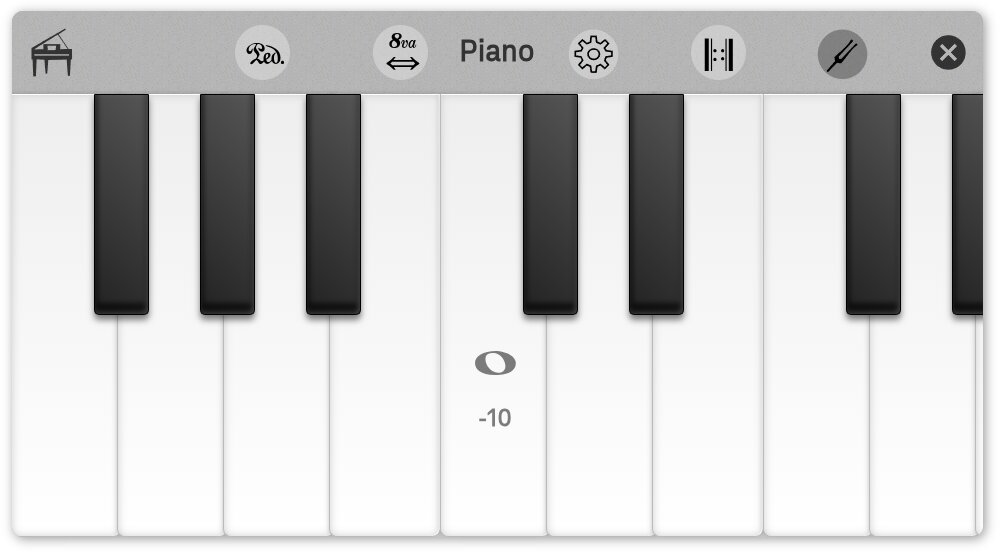
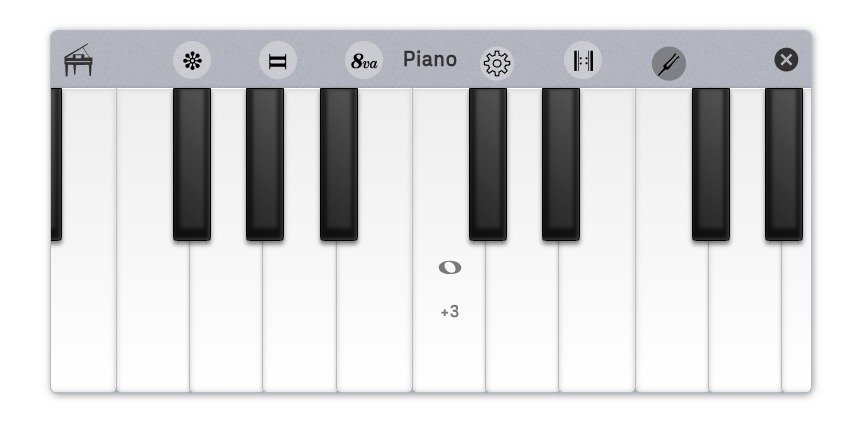
More piano hacking; doc update.

diff --git a/src/tool.js b/src/tool.js
@@ -125,7 +125,7 @@ class Piano {
       touch-action: manipulation; 
       user-select: none;
     }
-    .Piano__key-white:active {
+    .Piano__key-white:active, .Piano__key-white.pressed {
       border-top:.06em solid #777;
       border-left:.06em solid #999;
       border-bottom:.06em solid #999;
@@ -147,7 +147,7 @@ class Piano {
       touch-action: manipulation;
       user-select: none;
     }
-    .Piano__key-black:active {
+    .Piano__key-black:active, .Piano__key-black.pressed {
       box-shadow:-.06em -.06em .18em rgba(255,255,255,0.2) inset,0 -.18em .18em 3px rgba(0,0,0,0.6) inset,0 .06em .18em rgba(0,0,0,0.5);
       background:linear-gradient(to right,#444 0%,#222 100%)
       touch-action: manipulation;
@@ -250,6 +250,7 @@ class Piano {
     this.cell = cell;
     this.keyboardLeft = null;
     this.userWidth = null;
+    this.pointerKeys = new Map();
     Object.assign(this, dataIndex("tag", this.elm));
     this.c4Elm = dataIndex("sample", this.elm)["60/0"];
 
@@ -317,7 +318,7 @@ class Piano {
         let minDrag = -5 * emSize;
         let maxDrag = 16 * emSize;
         let labelWidth = this.panel.title ? this.panel.title.offsetWidth : 100;
-        let minWidth = this.c4Elm.offsetWidth * 8; // minimum 8 white keys
+        let minWidth = this.c4Elm.offsetWidth * 10; // minimum 10 white keys
         let maxWidth = Math.min(K, 2 * window.innerWidth - labelWidth / 2);
 
         e.startWidth = W;
@@ -547,6 +548,9 @@ class Piano {
     });
 
     let noteOff = (tag, force=false) => {
+      let keyElm = this.keyboard.querySelector(`[data-sample="${tag}"]`);
+      if (keyElm) keyElm.classList.remove("pressed");
+
       let note = this.activeNotes.get(tag);
       if(note && (force || !(this.sustaining || this.tuning)))  {
         note.envelope.gain.setTargetAtTime(0, actx.currentTime, 0.015);
@@ -613,19 +617,48 @@ class Piano {
       // Trim activeNotes to current "voices" setting
       while(this.activeNotes.size > this.cell.stash["voices"] - 1) noteOff(this.activeNotes.keys().next().value, true);
       // ...and now sound the new Note
+      let keyElm = this.keyboard.querySelector(`[data-sample="${midiOffset}"]`);
+      if (keyElm) keyElm.classList.add("pressed");
+
       source.start(0);
       this.activeNotes.set(midiOffset, { midiOffset, envelope, source});
     };
 
-    // piano key press handler
+    // piano key press handler (supports glissando)
     this.panel.listeners.push(listen(this.keyboard, "pointerdown", (e) => {
-      let midiOffset = e.target.dataset.sample;
-      if (!midiOffset) return; // pointerdown landed between keys / on a non-key element
-      e.target.setPointerCapture(e.pointerId);
+      let key = e.target.closest('[data-sample]');
+      if (!key) return;
+      e.stopPropagation();
+      this.keyboard.setPointerCapture(e.pointerId);
+      let midiOffset = key.dataset.sample;
+      this.pointerKeys.set(e.pointerId, midiOffset);
       noteOn(midiOffset);
-      listen(e.target, "pointerup", (e) => {
-        noteOff(midiOffset);
-      }, {once:true});
+    }));
+
+    this.panel.listeners.push(listen(this.keyboard, "pointermove", (e) => {
+      if (!this.pointerKeys.has(e.pointerId)) return;
+      let target = document.elementFromPoint(e.clientX, e.clientY);
+      let key = target ? target.closest('[data-sample]') : null;
+      let currentMidiOffset = this.pointerKeys.get(e.pointerId);
+      if (key) {
+        let newMidiOffset = key.dataset.sample;
+        if (newMidiOffset !== currentMidiOffset) {
+          if (currentMidiOffset) noteOff(currentMidiOffset);
+          this.pointerKeys.set(e.pointerId, newMidiOffset);
+          noteOn(newMidiOffset);
+        }
+      } else {
+        if (currentMidiOffset) {
+          noteOff(currentMidiOffset);
+          this.pointerKeys.set(e.pointerId, null);
+        }
+      }
+    }));
+
+    this.panel.listeners.push(listen(this.keyboard, ["pointerup", "pointercancel"], (e) => {
+      let currentMidiOffset = this.pointerKeys.get(e.pointerId);
+      if (currentMidiOffset) noteOff(currentMidiOffset);
+      this.pointerKeys.delete(e.pointerId);
     }));
   }
 

diff --git a/src/icon.js b/src/icon.js
@@ -476,8 +476,7 @@ Print:
   `<path fill="#aaa" stroke="currentColor" stroke-width=".5" d="m14.3,12h2.2M18.6,15.6 17.5,13M6.18,12H7.97M3.37,15.6 5.17,13M11.1,1.96h1M10.7,3.13 11.4,2.57 11.1,2M11.8,3.12 12.4,2.53 12.1,1.96M11.1,6.91 10.6,6.28 11.2,5.88 10.6,5.19 11.1,4.75 10.7,4.18M12.4,6.86 12,6.23 12.6,5.82 12,5.13 12.4,4.69 12.1,4.12m0.8,2.85H9.85V8.83H12.9V8.28L20.8,8.15V7.69L12.9,7.58ZM7.02,8.82H15.7V10.3H7.01ZM8.19,11.6 6.63,14.4H15.3L14.1,11.6ZM3.56,22.9V15.6H18.4V23H16.5V18.6H15.6V17H6.03v1.6H5.14v4.3zM16.6,8.23V13h0.9L17.6,8.24ZM5.14,13V2.1H6.16V3.15H16.6v-1.1h1.1l-0.1,5.57h-1V4.09H6.16V13Z" />`,
 
 Range:
-  `<text y="10" x="6" font-size="10px" font-family="Bravura">\ue512</text>
-   <text y="22" x="1" font-size="24px">\u21d4</text>`,
+  `<text y="17" x="4" font-size="12px" font-family="Bravura">\ue512</text>`,
 
 Rastrum:
   `<path fill="#aaa" stroke="currentColor" stroke-width=".6" d="M15.6,2.74 17,1.48 22.4,6.75 21.1,8.04ZM0.472,17.8 6.59,10C9.69,8.18 12.9,6.65 15.5,4.16l4.2,4.17C17.4,10.7 15.5,14 13.5,17.3l-7.55,6.2 6.15,-7.6-7.56,6C4.31,22.1 11.1,14 10.6,14.4l-7.49,6.1 6.21,-7.6-7.65,6.2c-0.59,0.5 6.51,-8.2 6.06,-7.8z"/>`,
@@ -546,9 +545,7 @@ Storage:
    <path d="M4 19v-2M6 19v-2M8 19v-2M10 19v-2M16 19v-2M18 19v-2M20 19v-2" stroke="currentColor" stroke-width="0.6"/>`,
 
 Stretcher:
-  `<text y="11" x="8" font-size="16px" font-family="Bravura">\uea68&nbsp;\uea69</text>
-   <text y="22" x="1" font-size="24px">\u21d4</text>`,
-
+  `<text y="26" x="6.5" font-size="32px" font-family="Bravura">\ue0a1</text>`,
 
 
 Symbols:

diff --git a/doc/Guidebook.html b/doc/Guidebook.html
@@ -2396,8 +2396,8 @@ function closeVideo(event, container) {
         <figcaption>Piano keyboard with controls</figcaption>
     </figure>
 
-    <p>Drag left ⇄ right from the [] button to narrow/widen the keyboard. 
-    <p>Drag left ⇄ right from the 8va button to move the visible keys within the keyboard.</p>
+    <p>Drag left ⇄ right from the |=| (<i>breve</i>) button to narrow/widen the keyboard. 
+        <p>Drag left ⇄ right from the 8va (<i>ottava</i>) button to move the visible keys within the keyboard.</p>
 
     <div class="note">Piano samples make up a significant portion of Podium's download size. For this reason, the maximum keyboard size is limited to 5 octaves, a common size for an 18th century harpsichord or pianoforte. Samples have been truncated and down-sampled, reducing size while maintaining (hopefully) acceptable audio quality.</div>
 
